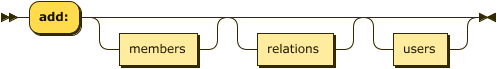
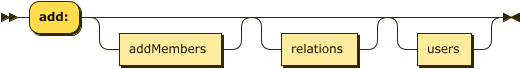
update

Changed region(s): [[0.0, 0.0, 0.996, 0.9855], [0.0604, 0.4058, 0.0905, 0.5217], [0.0604, 0.0, 0.0905, 0.087]]

diff --git a/README.md b/README.md
@@ -5,20 +5,22 @@ Universo Santa Tecla
 **Índice**  
 
 1. [Modelo del dominio](#modelo-del-dominio)  
-   1.1. [Lenguaje](#lenguaje)  
-      1.1.1. [Sintaxis](#sintaxis)  
-      1.1.2. [Ejemplos Comandos](#ejemplos-comandos)  
-2. [Requisitos](#requisitos)  
+2. [Disciplina de Requisitos](#disciplina-de-requisitos)  
    2.1. [Actores y casos de uso](#actores-y-casos-de-uso)  
    2.2. [Contexto](#contexto)  
    2.3. [Prototipo de Interfaz](#prototipo-de-interfaz)  
-3. [Analisis](#analisis)  
-   3.1. [Casos de uso](#casos-de-uso)  
-      3.1.1. [Add Member](#add-member)  
-      3.1.2. [Add Relation](#add-relation)  
-4. [Diseño](#diseño)  
-   4.1. [Vista de Despliegue](#vista-de-despliegue)  
-   4.2. [Trazabilidad Analisis/Diseño](#trazabilidad-analisis/diseño)  
+   2.4. [Gramática del lenguaje](#gramática-del-lenguaje) 
+   2.5. [Semántica de comandos](#semántica-de-comandos) 
+3. [Disciplina de Analisis](#disciplina-de-análisis)  
+   3.1. [Arquitectura de análisis](#arquitectura-de-análisis) 
+   3.2. [Análisis de casos de uso](#análisis-de-casos-de-uso)  
+      3.2.1. [Add Member](#add-member)  
+      3.2.2. [Add Relation](#add-relation)  
+4. [Disciplina de Diseño](#disciplina-de-diseño)  
+   4.1. [Arquitectura del sistema de diseño](#arquitectura-del-sistema-de-diseño)  
+   4.2. [Diseño de casos de uso](#diseño-de-casos-de-uso)  
+5. [Disciplina de Pruebas](#disciplina-de-pruebas)  
+6. [Disciplina de Despliegue](#disciplina-de-despliegue)  
 
 ## Modelo del dominio  
   
@@ -40,33 +42,90 @@ Universo Santa Tecla
 ##### Comando add
 <a name="UST_UML">UST_UML:</a>
 
-![](docs/diagrams/out/domainModel/languageSintaxis/UST_UML.png)<map name="UST_UML.map"><area shape="rect" coords="49,1,157,33" href="#addCommand" title="addCommand"><area shape="rect" coords="49,45,161,77" href="#deleteComand" title="deleteComand"><area shape="rect" coords="49,89,175,121" href="#modifyCommand" title="modifyCommand"><area shape="rect" coords="49,133,165,165" href="#openCommand" title="openCommand"><area shape="rect" coords="49,177,165,209" href="#closeCommand" title="closeCommand"></map>
+![](docs/diagrams/out/domainModel/languageSintaxis/UST_UML.png)<map name="UST_UML.map"><area shape="rect" coords="49,1,157,33" href="#addCommand" title="addCommand"><area shape="rect" coords="49,45,173,77" href="#deleteCommand" title="deleteCommand"><area shape="rect" coords="49,89,175,121" href="#modifyCommand" title="modifyCommand"><area shape="rect" coords="49,133,165,165" href="#openCommand" title="openCommand"></map>
 
 no references
 
-<a name="addCommand">addCommand:</a>
+<a name="openCommand">openCommand:</a>
 
-![](docs/diagrams/out/domainModel/languageSintaxis/addCommand.png)<map name="addCommand.map"><area shape="rect" coords="119,33,197,65" href="#members" title="members"><area shape="rect" coords="257,33,333,65" href="#relations" title="relations"><area shape="rect" coords="393,33,447,65" href="#users" title="users"></map>
+![](docs/diagrams/out/domainModel/languageSintaxis/openCommand.png)<map name="openCommand.map"><area shape="rect" coords="107,1,191,33" href="#indentifier" title="indentifier"></map>
 
 referenced by:
 
 *   [UST_UML](#UST_UML "UST_UML")
 
-<a name="members">members:</a>
+<a name="project">project:</a>
 
-![](docs/diagrams/out/domainModel/languageSintaxis/members.png)<map name="members.map"><area shape="rect" coords="177,17,241,49" href="#project" title="project"><area shape="rect" coords="177,61,249,93" href="#package" title="package"><area shape="rect" coords="177,105,229,137" href="#class" title="class"><area shape="rect" coords="177,149,233,181" href="#enum" title="enum"><area shape="rect" coords="177,193,253,225" href="#interface" title="interface"><area shape="rect" coords="177,237,229,269" href="#actor" title="actor"><area shape="rect" coords="177,281,249,313" href="#usecase" title="usecase"><area shape="rect" coords="177,325,235,357" href="#object" title="object"><area shape="rect" coords="177,369,229,401" href="#node" title="node"><area shape="rect" coords="177,413,267,445" href="#component" title="component"><area shape="rect" coords="177,457,229,489" href="#state" title="state"><area shape="rect" coords="177,501,241,533" href="#activity" title="activity"></map>
+![](docs/diagrams/out/domainModel/languageSintaxis/project.png)<map name="project.map"><area shape="rect" coords="121,1,197,33" href="#identifier" title="identifier"></map>
+
+referenced by:
+
+*   [addProject](#addProject "addProject")
+*   [deleteMembers](#deleteMembers "deleteMembers")
+*   [modifyMembers](#modifyMembers "modifyMembers")
+
+<a name="package">package:</a>
+
+![](docs/diagrams/out/domainModel/languageSintaxis/package.png)<map name="package.map"><area shape="rect" coords="129,1,205,33" href="#identifier" title="identifier"></map>
+
+referenced by:
+
+*   [addPackage](#addPackage "addPackage")
+*   [deleteMembers](#deleteMembers "deleteMembers")
+*   [modifiers](#modifiers "modifiers")
+*   [modifyMembers](#modifyMembers "modifyMembers")
+
+<a name="class">class:</a>
+
+![](docs/diagrams/out/domainModel/languageSintaxis/class.png)<map name="class.map"><area shape="rect" coords="107,1,183,33" href="#identifier" title="identifier"></map>
+
+referenced by:
+
+*   [addClass](#addClass "addClass")
+*   [deleteMembers](#deleteMembers "deleteMembers")
+*   [modifyMembers](#modifyMembers "modifyMembers")
+
+<a name="addCommand">addCommand:</a>
+
+![](docs/diagrams/out/domainModel/languageSintaxis/addCommand.png)<map name="addCommand.map"><area shape="rect" coords="119,33,221,65" href="#addMembers" title="addMembers"><area shape="rect" coords="281,33,357,65" href="#relations" title="relations"><area shape="rect" coords="417,33,471,65" href="#users" title="users"></map>
+
+referenced by:
+
+*   [UST_UML](#UST_UML "UST_UML")
+
+<a name="addMembers">addMembers:</a>
+
+![](docs/diagrams/out/domainModel/languageSintaxis/addMembers.png)<map name="addMembers.map"><area shape="rect" coords="177,17,265,49" href="#addProject" title="addProject"><area shape="rect" coords="177,61,273,93" href="#addPackage" title="addPackage"><area shape="rect" coords="177,105,255,137" href="#addClass" title="addClass"><area shape="rect" coords="177,149,233,181" href="#enum" title="enum"><area shape="rect" coords="177,193,253,225" href="#interface" title="interface"><area shape="rect" coords="177,237,229,269" href="#actor" title="actor"><area shape="rect" coords="177,281,249,313" href="#usecase" title="usecase"><area shape="rect" coords="177,325,235,357" href="#object" title="object"><area shape="rect" coords="177,369,229,401" href="#node" title="node"><area shape="rect" coords="177,413,267,445" href="#component" title="component"><area shape="rect" coords="177,457,229,489" href="#state" title="state"><area shape="rect" coords="177,501,241,533" href="#activity" title="activity"></map>
 
 referenced by:
 
 *   [addCommand](#addCommand "addCommand")
+*   [addPackage](#addPackage "addPackage")
+*   [addProject](#addProject "addProject")
 
-<a name="class">class:</a>
+<a name="addProject">addProject:</a>
 
-![](docs/diagrams/out/domainModel/languageSintaxis/class.png)<map name="class.map"><area shape="rect" coords="107,1,183,33" href="#identifier" title="identifier"><area shape="rect" coords="223,33,301,65" href="#modifiers" title="modifiers"><area shape="rect" coords="361,33,469,65" href="#classMembers" title="classMembers"><area shape="rect" coords="529,33,605,65" href="#relations" title="relations"></map>
+![](docs/diagrams/out/domainModel/languageSintaxis/addProject.png)<map name="addProject.map"><area shape="rect" coords="29,1,93,33" href="#project" title="project"><area shape="rect" coords="133,33,235,65" href="#addMembers" title="addMembers"><area shape="rect" coords="295,33,371,65" href="#relations" title="relations"></map>
 
 referenced by:
 
-*   [members](#members "members")
+*   [addMembers](#addMembers "addMembers")
+
+<a name="addPackage">addPackage:</a>
+
+![](docs/diagrams/out/domainModel/languageSintaxis/addPackage.png)<map name="addPackage.map"><area shape="rect" coords="29,1,101,33" href="#package" title="package"><area shape="rect" coords="141,33,243,65" href="#addMembers" title="addMembers"><area shape="rect" coords="303,33,379,65" href="#relations" title="relations"></map>
+
+referenced by:
+
+*   [addMembers](#addMembers "addMembers")
+
+<a name="addClass">addClass:</a>
+
+![](docs/diagrams/out/domainModel/languageSintaxis/addClass.png)<map name="addClass.map"><area shape="rect" coords="29,1,81,33" href="#class" title="class"><area shape="rect" coords="121,33,199,65" href="#modifiers" title="modifiers"><area shape="rect" coords="259,33,367,65" href="#classMembers" title="classMembers"><area shape="rect" coords="427,33,503,65" href="#relations" title="relations"></map>
+
+referenced by:
+
+*   [addMembers](#addMembers "addMembers")
 
 <a name="identifier">identifier:</a>
 
@@ -75,7 +134,9 @@ referenced by:
 referenced by:
 
 *   [class](#class "class")
-*   [member](#member "member")
+*   [definition](#definition "definition")
+*   [package](#package "package")
+*   [project](#project "project")
 *   [relations](#relations "relations")
 *   [type](#type "type")
 
@@ -85,19 +146,19 @@ referenced by:
 
 referenced by:
 
-*   [class](#class "class")
+*   [addClass](#addClass "addClass")
 
 <a name="classMembers">classMembers:</a>
 
-![](docs/diagrams/out/domainModel/languageSintaxis/classMembers.png)<map name="classMembers.map"><area shape="rect" coords="157,17,229,49" href="#member" title="member"></map>
+![](docs/diagrams/out/domainModel/languageSintaxis/classMembers.png)<map name="classMembers.map"><area shape="rect" coords="157,17,235,49" href="#definition" title="definition"></map>
 
 referenced by:
 
-*   [class](#class "class")
+*   [addClass](#addClass "addClass")
 
-<a name="member">member:</a>
+<a name="definition">definition:</a>
 
-![](docs/diagrams/out/domainModel/languageSintaxis/member.png)<map name="member.map"><area shape="rect" coords="419,1,467,33" href="#type" title="type"><area shape="rect" coords="487,1,563,33" href="#identifier" title="identifier"><area shape="rect" coords="327,121,375,153" href="#type" title="type"><area shape="rect" coords="395,121,471,153" href="#identifier" title="identifier"><area shape="rect" coords="577,121,625,153" href="#type" title="type"><area shape="rect" coords="645,121,721,153" href="#identifier" title="identifier"></map>
+![](docs/diagrams/out/domainModel/languageSintaxis/definition.png)<map name="definition.map"><area shape="rect" coords="419,1,467,33" href="#type" title="type"><area shape="rect" coords="487,1,563,33" href="#identifier" title="identifier"><area shape="rect" coords="327,121,375,153" href="#type" title="type"><area shape="rect" coords="395,121,471,153" href="#identifier" title="identifier"><area shape="rect" coords="577,121,625,153" href="#type" title="type"><area shape="rect" coords="645,121,721,153" href="#identifier" title="identifier"></map>
 
 referenced by:
 
@@ -109,7 +170,7 @@ referenced by:
 
 referenced by:
 
-*   [member](#member "member")
+*   [definition](#definition "definition")
 
 <a name="relations">relations:</a>
 
@@ -117,8 +178,44 @@ referenced by:
 
 referenced by:
 
+*   [addClass](#addClass "addClass")
 *   [addCommand](#addCommand "addCommand")
-*   [class](#class "class")
+*   [addPackage](#addPackage "addPackage")
+*   [addProject](#addProject "addProject")
+*   [deleteCommand](#deleteCommand "deleteCommand")
+*   [modifyCommand](#modifyCommand "modifyCommand")
+
+<a name="modifyCommand">modifyCommand:</a>
+
+![](docs/diagrams/out/domainModel/languageSintaxis/modifyCommand.png)<map name="modifyCommand.map"><area shape="rect" coords="141,33,261,65" href="#modifyMembers" title="modifyMembers"><area shape="rect" coords="321,33,397,65" href="#relations" title="relations"><area shape="rect" coords="457,33,511,65" href="#users" title="users"></map>
+
+referenced by:
+
+*   [UST_UML](#UST_UML "UST_UML")
+
+<a name="modifyMembers">modifyMembers:</a>
+
+![](docs/diagrams/out/domainModel/languageSintaxis/modifyMembers.png)<map name="modifyMembers.map"><area shape="rect" coords="177,17,241,49" href="#project" title="project"><area shape="rect" coords="177,61,249,93" href="#package" title="package"><area shape="rect" coords="177,105,229,137" href="#class" title="class"><area shape="rect" coords="177,149,233,181" href="#enum" title="enum"><area shape="rect" coords="177,193,253,225" href="#interface" title="interface"><area shape="rect" coords="177,237,229,269" href="#actor" title="actor"><area shape="rect" coords="177,281,249,313" href="#usecase" title="usecase"><area shape="rect" coords="177,325,235,357" href="#object" title="object"><area shape="rect" coords="177,369,229,401" href="#node" title="node"><area shape="rect" coords="177,413,267,445" href="#component" title="component"><area shape="rect" coords="177,457,229,489" href="#state" title="state"><area shape="rect" coords="177,501,241,533" href="#activity" title="activity"><area shape="rect" coords="373,17,477,49" href="#newIdentifier" title="newIdentifier"></map>
+
+referenced by:
+
+*   [modifyCommand](#modifyCommand "modifyCommand")
+
+<a name="deleteCommand">deleteCommand:</a>
+
+![](docs/diagrams/out/domainModel/languageSintaxis/deleteCommand.png)<map name="deleteCommand.map"><area shape="rect" coords="135,33,253,65" href="#deleteMembers" title="deleteMembers"><area shape="rect" coords="313,33,389,65" href="#relations" title="relations"><area shape="rect" coords="449,33,503,65" href="#users" title="users"></map>
+
+referenced by:
+
+*   [UST_UML](#UST_UML "UST_UML")
+
+<a name="deleteMembers">deleteMembers:</a>
+
+![](docs/diagrams/out/domainModel/languageSintaxis/deleteMembers.png)<map name="deleteMembers.map"><area shape="rect" coords="177,17,241,49" href="#project" title="project"><area shape="rect" coords="177,61,249,93" href="#package" title="package"><area shape="rect" coords="177,105,229,137" href="#class" title="class"><area shape="rect" coords="177,149,233,181" href="#enum" title="enum"><area shape="rect" coords="177,193,253,225" href="#interface" title="interface"><area shape="rect" coords="177,237,229,269" href="#actor" title="actor"><area shape="rect" coords="177,281,249,313" href="#usecase" title="usecase"><area shape="rect" coords="177,325,235,357" href="#object" title="object"><area shape="rect" coords="177,369,229,401" href="#node" title="node"><area shape="rect" coords="177,413,267,445" href="#component" title="component"><area shape="rect" coords="177,457,229,489" href="#state" title="state"><area shape="rect" coords="177,501,241,533" href="#activity" title="activity"></map>
+
+referenced by:
+
+*   [deleteCommand](#deleteCommand "deleteCommand")
 
 #### Semántica de comandos  
 * Todos los comandos desarrollados son autoexplicativos y estructurados 
